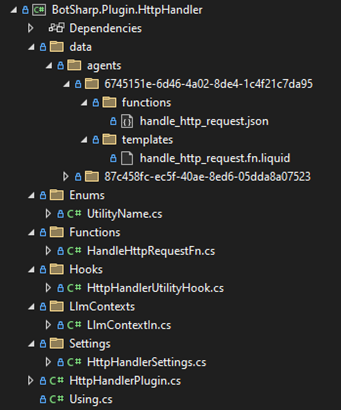
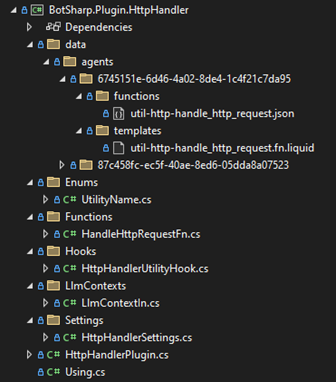
refine doc

Changed region(s): [[0.0298, 0.0, 0.9524, 1.0]]

diff --git a/src/Infrastructure/BotSharp.Abstraction/Plugins/Models/PluginDef.cs b/src/Infrastructure/BotSharp.Abstraction/Plugins/Models/PluginDef.cs
@@ -6,14 +6,15 @@ public class PluginDef
     public string Name { get; set; }
     public string Description { get; set; }
     public string Assembly { get; set; }
+
     [JsonPropertyName("is_core")]
-    public bool IsCore => Assembly == "BotSharp.Core" || Assembly == "BotSharp.Core.SideCar";
+    public bool IsCore => Assembly?.StartsWith("BotSharp.Core") == true;
 
     [JsonPropertyName("icon_url")]
     public string? IconUrl { get; set; }
 
     [JsonPropertyName("agent_ids")]
-    public string[] AgentIds { get; set; } = new string[0];
+    public string[] AgentIds { get; set; } = [];
 
     [JsonPropertyName("settings_name")]
     [JsonIgnore(Condition = JsonIgnoreCondition.WhenWritingNull)]

diff --git a/docs/architecture/agent-utility.md b/docs/architecture/agent-utility.md
@@ -4,7 +4,7 @@
 This document aims to introduce the agent utility concept and provide an instruction on adding custom agent utilities in AI project “BotSharp”. We will start by explaining the mechanism of agent utility in [Section 2](#agent-utility). Then, we illustrate the custom agent utility setup and integration in [Section 3](#agent-utility-setup) and [Section 4](#agent-utility-integration), respectively. A use case will be demonstrated in [Section 5](#use-case-demo). We wrap up the document with a short summary.
 
 ## Agent Utility
-The agent utility is a unique feature that can be integrated into agent to enhance its capability. Its core principle is that it can dynamically and seamlessly add extra prompts and add task-oriented functions (or tools) during conversation, without disrupting the agent’s primary purpose. In other words, the agent utility can perform extra tasks based on the context of conversation. Typical examples of agent utility include reading images/pdf, generating image, and sending http requests. [Fig 2.1.1](#agent-utility-example) demonstrates an example of these utilities. In this example, “Chatbot” is a simple agent to answer user questions and the utilities extend its capability to explain image content, generate requested image, and send a specific http request.
+The agent utility is a unique feature that can be integrated into agent to enhance its capability. Its core principle is that it can dynamically and seamlessly add extra prompts and add task-oriented functions (or tools) during conversation, without disrupting the agent’s primary purpose. In other words, the agent utility can perform extra tasks based on the context of conversation. Typical examples of agent utility include reading images/pdf, generating image, and sending http requests. [Fig 2.1.1](#agent-utility-example) demonstrates an example of these utilities. In this example, “Chatbot” is a simple agent to answer user questions, and the utilities extend its capability to explain image content, generate requested image, and send a specific http request.
 
 <div id="agent-utility-example">
     <img src="assets/agent-utility/agent-utility-example.png" style="display: block; margin: auto;" />
@@ -15,7 +15,7 @@ The agent utility is a unique feature that can be integrated into agent to enhan
 In this section, we outline the steps to set up a custom agent utility. We start with the basic code structure and then add essential utility data, such as prompts and functions. The utility hooks are used to incorporate the utility into the agent. Finally, we give a brief overview of the utility implementation.
 
 ### Basic Code Structure
-The basic code structure of a typical agent utility includes prompt/function data, hooks, and function implementation. We can add specific utility prompts and functions in different projects. Note that the agent “6745151e-6d46-4a02-8de4-1c4f21c7da95” is considered as a dedicated utility assistant, and every prompt and function can be optionally used as a utility. [Fig 3.1.1](#agent-utility-code-structure) presents the structure of prompt, function, hooks, and implementation of an http utility.
+The basic code structure of a typical agent utility includes prompt/function data, hooks, and function implementation. We can add specific utility prompts and functions in different projects. Note that the agent **“6745151e-6d46-4a02-8de4-1c4f21c7da95”** is considered as a dedicated utility assistant, and every prompt and function can be optionally used as a utility. [Fig 3.1.1](#agent-utility-code-structure) presents the structure of prompt, function, hooks, and implementation of an http utility.
 
 <div id="agent-utility-code-structure">
     <img src="assets/agent-utility/agent-utility-code-structure.png" style="display: block; margin: auto;" />
@@ -23,7 +23,7 @@ The basic code structure of a typical agent utility includes prompt/function dat
 <br />
 
 ### Utility Data
-For a typical agent utility, it is essential to add at least a prompt and a function. The prompt is added under the “templates” folder and its recommended name is “[function name].fn.liquid”, while the function is added under the “functions” folder and its recommended name is “[function name].json”. Once we compile the project, we can find the aggregated utility assistant folder at location: “\BotSharp\src\WebStarter\bin\Debug\net8.0\data\agents\6745151e-6d46-4a02-8de4-1c4f21c7da95”.
+For a typical agent utility, it is essential to add at least one prompt and one function. The utility name is formatted as **“[plugin name].[utility name]”**, such as “http.http-handler”. The prompt is added under the “templates” folder and its recommended name is **“util-[plugin name]-[function name].fn.liquid”**, while the function is added under the “functions” folder and its recommended name is **“util-[plugin name]-[function name].json”**. Once we compile the project, we can find the aggregated utility assistant folder at location: **“\BotSharp\src\WebStarter\bin\Debug\net8.0\data\agents\6745151e-6d46-4a02-8de4-1c4f21c7da95”**.
 
 ### Utility Hooks
 The utility hooks are used to connect the agent utility to the agent system. The code snippet below demonstrates an implementation of the http utility hook, where we define the utility name, prompts and functions. Note that each utility can be used across different agents.
@@ -50,7 +50,7 @@ public class HttpHandlerPlugin : IBotSharpPlugin
 }
 ```
 
-The agent hook is used to append the utility prompt and function during the conversation. Note that the utility data is only allowed to be included in the context of conversation. The utility mechanism is implemented in the “OnAgentUtilityLoaded” hook, and it is invoked when we load any agent.
+The agent hook is used to append the utility prompt and function during the conversation. **Note that the utility data is only allowed to be included in the context of conversation**. The utility mechanism is implemented in the **“OnAgentUtilityLoaded”** hook, and it is invoked when we load any agent.
 
 ```csharp
 public async Task<Agent> LoadAgent(string id)
@@ -128,7 +128,7 @@ Here we introduce a simple utility function implementation. The actual content d
 ```csharp
 public class HandleHttpRequestFn : IFunctionCallback
 {
-    public string Name => "handle_http_request";
+    public string Name => "util-http-handle_http_request";
     public string Indication => "Handling http request";
 
     private readonly IServiceProvider _services;
@@ -344,12 +344,12 @@ Here we introduce the agent setup with utilities and inheritance. As we introduc
   "profiles": [ "pizza" ],
   "utilities": [
     {
-      "name": "http_handler",
+      "name": "http.http-handler",
       "functions": [
-        { "name": "handle_http_request" }
+        { "name": "util-http-handle_http_request" }
       ],
       "templates": [
-        { "name": "handle_http_request.fn" }
+        { "name": "util-http-handle_http_request.fn" }
       ]
     }
   ],
